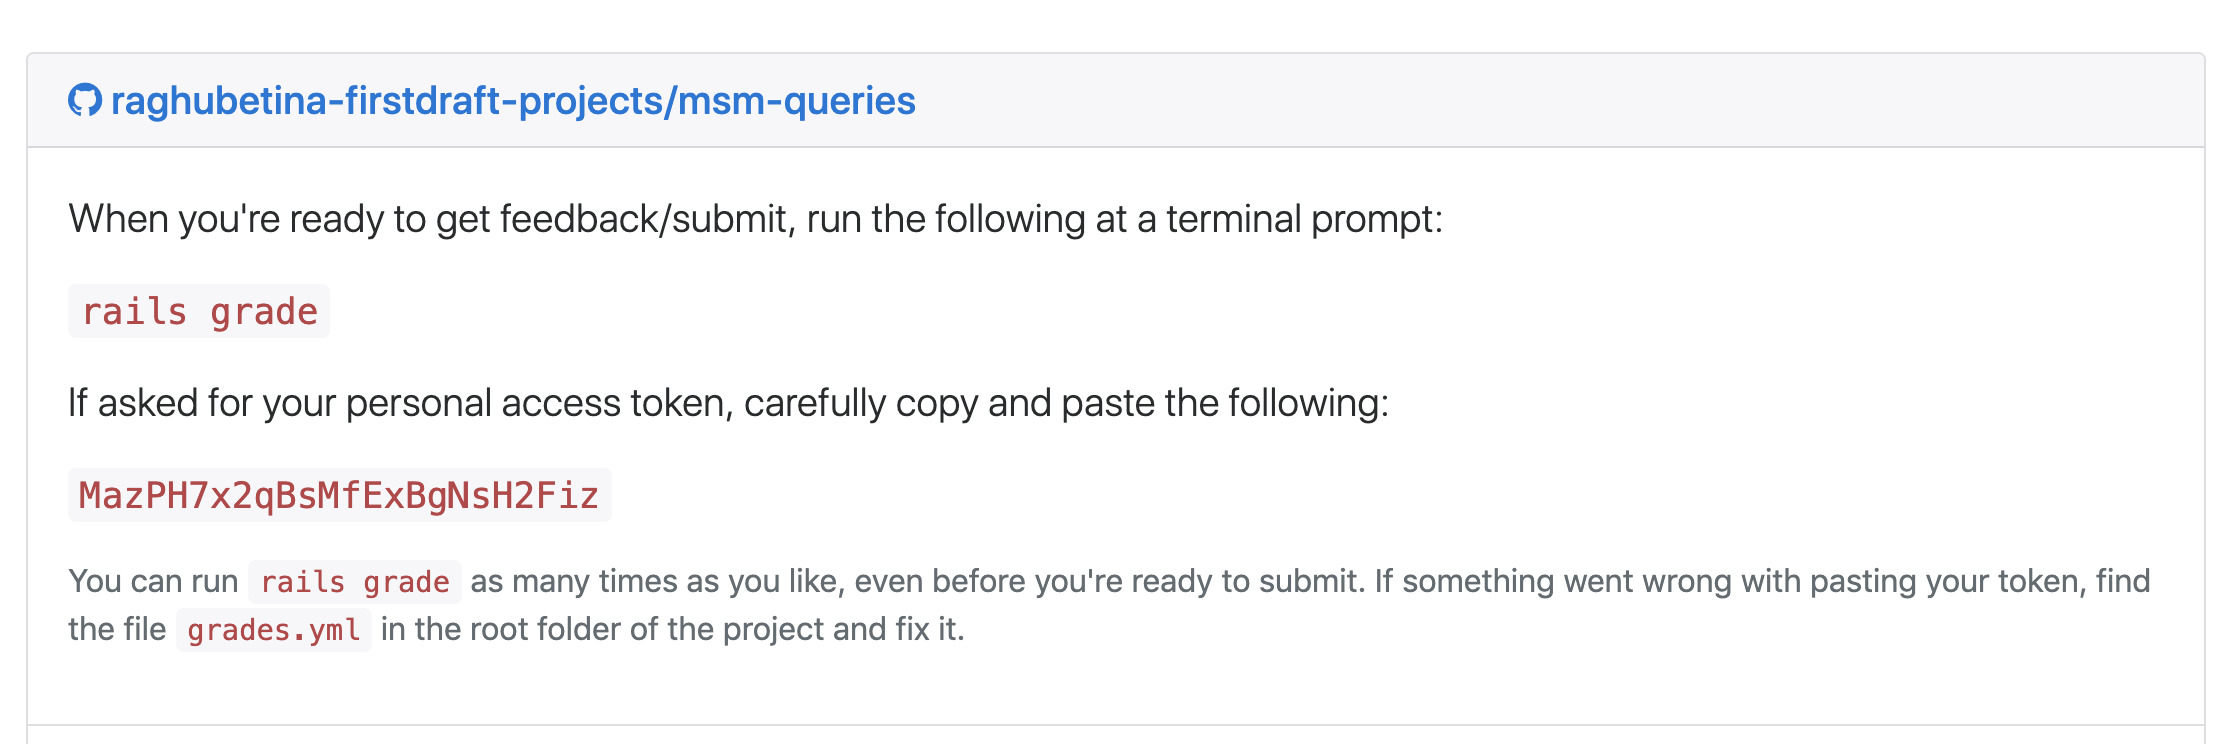
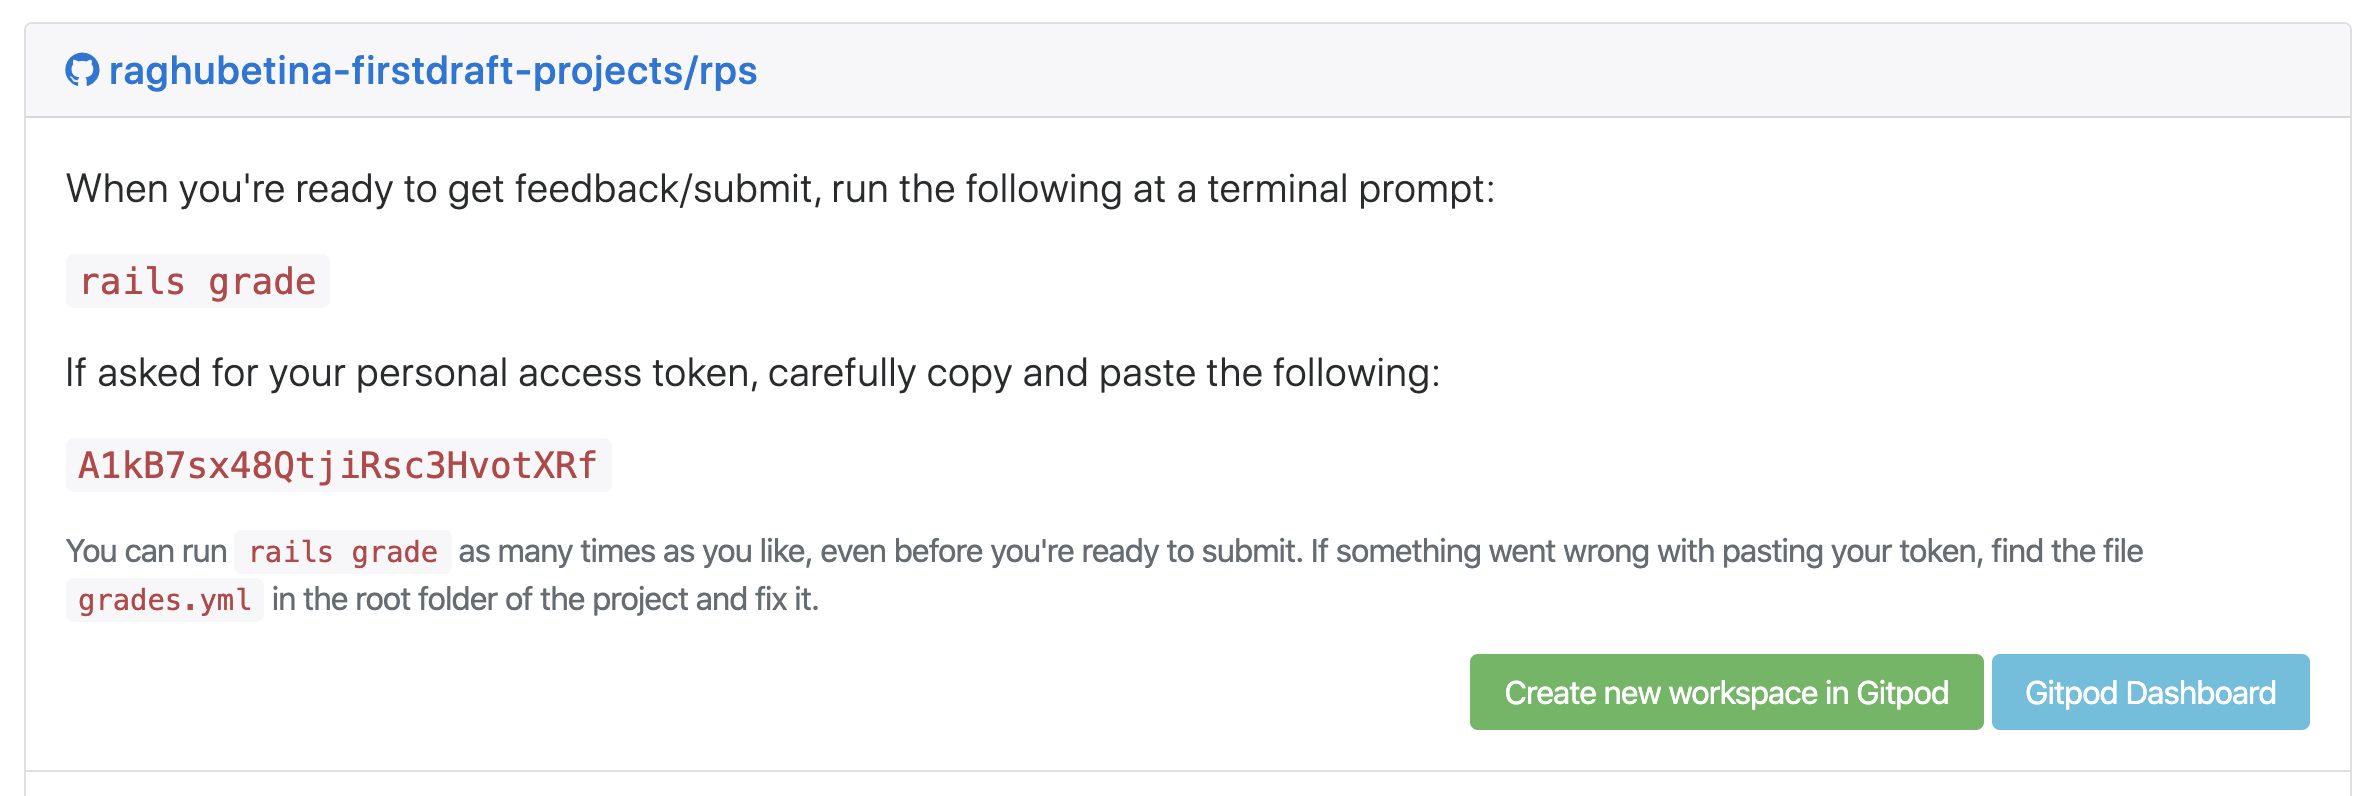
WIP

diff --git a/rails-grade.md b/rails-grade.md
@@ -32,15 +32,11 @@ Open up the Assignments tab and make sure they're sorted by type.
 
 ![](/assets/login-canvas.png)
 
-Scroll down to the assignment you want to start and click the link that says 'Load [your assignment name] in a new window'.
+Scroll down to the assignment you want to start and click the link that says 'Load [your assignment name] in a new window' (the name of the project will vary).
 
 ![](/assets/load-assignment.png)
 
-Authorize the firstdraft Grades application to access your account. **_Before_ you click "Authorize", make sure to click the "Grant" button next to the organization that you created earlier.**
-
-**_Before_ you click "Authorize", make sure to click the "Grant" button next to the organization that you created earlier.**
-
-**_Before_ you click "Authorize", make sure to click the "Grant" button next to the organization that you created earlier.**
+**_Before_ you click "Authorize", make sure to click the "Grant" button next to the organization that you created earlier.** Only then, click authorize to allow the firstdraft Grades application to access your account. 
 
 ![](/assets/authorize-first-draft.png)
 
@@ -54,15 +50,15 @@ Once you've joined, you should see feedback that you're now a member of appdev-p
 
 ![](/assets/github-joined-org-feedback.png)
 
-Now head back to the assignment in Canvas and click "Load assignment in a new tab" again. You should see something like the following:
+## Daily workflow
+
+The stuff above about setting up your organization and permissions was just a one-time thing. From now on, you'll just head to Canvas and click "Load assignment in a new tab". You should see something like the following (the name of the project will vary):
 
 ![](/assets/grade-setup-instructions.png)
 
-Ok, now we can get the project loaded up and try out the feedback feature. `bin/setup` as usual, if you haven't already:
+We will automatically make a copy (a "fork", in GitHub parlance) of the repository under your new GitHub organization. Then, you can choose to either "Create new workspace in Gitpod" or head to your "Gitpod Dashboard" to view existing workspaces.
 
-![](/assets/gitpod-bin-setup.png)
-
-Start working on the project to do whatever the instructions tell you. **When you're ready for feedback**, try a new command at a new Terminal prompt:
+Either way, once you're in the workspace, we can get the project loaded up and try out the feedback feature. After the `bin/setup` script is done running, start working on the project to do whatever the instructions tell you. **When you're ready for feedback**, try a new command at a new Terminal prompt:
 
 ```
 rails grade
@@ -75,6 +71,8 @@ You'll be asked for your access token; **copy-paste it carefully from the grades
 You should see output that looks like:
 
 ![](/assets/gitpod-rails-grade.png)
+
+**(Some projects aren't graded; in that case there may only be one dummy test listed.)**
 
 Copy-paste the Results URL into a new tab, or click on it (but make sure it isn't truncated).
 
